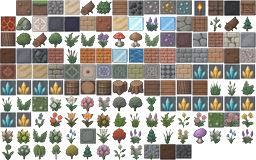
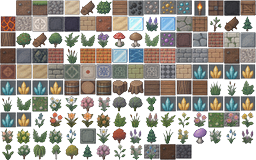
fix(dig): actually ship the limestone swap — tiles.png was stale (USER: 还是有这种石头)
The previous surface-stone fix rebuilt limestone in tiles_newworld.png
but never copied it to tiles.png, so the served atlas (and the browser)
still showed 石头 (4)-derived art underground — the user kept seeing
surface stone below ground. Also traced the mapping: _name_map.json maps
石头 (4) -> limestone, so limestone had been built from that surface-
looking art all along. Limestone slot 17 is now rebuilt from 安山岩 and
tiles.png is synced to tiles_newworld.png (md5 verified equal, served
bytes verified equal). Bump tiles.meta.js v=10.

Changed region(s): [[0.0625, 0.0938, 0.125, 0.2188]]

diff --git a/website/index.html b/website/index.html
@@ -310,7 +310,7 @@ tests/test_invoice.py <span class="s">......</span>  <span class="m">[ 18/1070 ]
 
 <script src="js/main.js"></script>
 <script src="js/pet.js"></script>
-<script src="assets/mc/tiles.meta.js?v=9"></script>
+<script src="assets/mc/tiles.meta.js?v=10"></script>
 <script src="js/worldgen.js?v=18"></script>
 <script src="js/vendor/phaser.min.js"></script>
 <script src="js/game2.js?v=251"></script>
